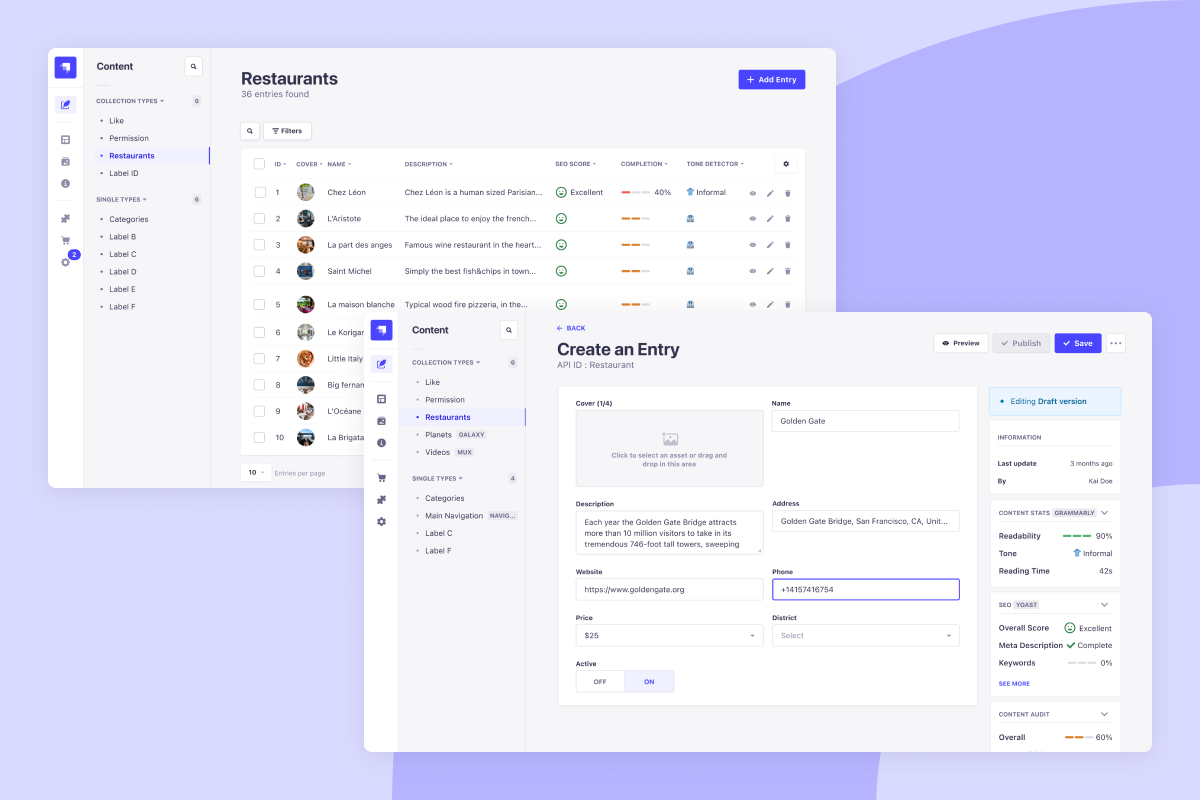
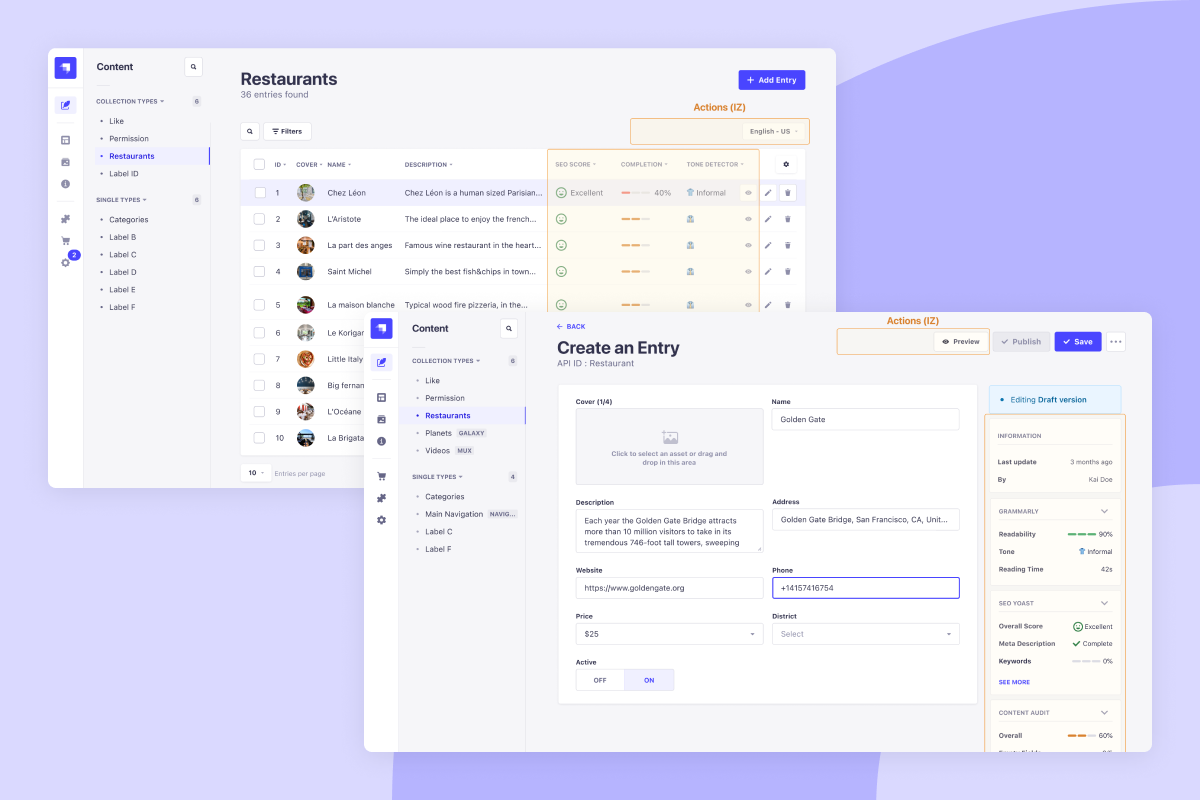
update info

diff --git a/rfcs/00xx - plugin-design-guidelines/00xx - plugin-design-guidelines.md b/rfcs/00xx - plugin-design-guidelines/00xx - plugin-design-guidelines.md
@@ -45,10 +45,12 @@ Plugins managing content for end-users should add collection and single types to
 
 To display additional information or allow specific actions in the Content Manager, a plugin should use injection zones to embed simple components, such as a card with texts, or a button.
 
-1. **Actions** in the List View (top-right corner of the list view): This zone is dedicated to buttons, filters, or select inputs. Example: Locale select (Internationalization).
-2. **Columns** (one or many columns in the list view): This zone is dedicated to short texts or icon button(s). Example: SEO score (Yoast)
-3. **Sidebar** (below the information card in the sidebar of the edit view): This zone is dedicated to any component that fits in a card of the width of the sidebar. Don't try to put too much in it and focus on the key feature of the plugin. Example: Writing style (Grammarly)
-- **Actions** in the Edit View (top-right corner of the edit view): This is zone is dedicated to buttons. Example: preview button (Netlify)
+**List View**
+- Actions (top-right corner): This zone is dedicated to buttons, filters, or select inputs. Example: Locale select (Internationalization).
+- Column(s) (in the table): This zone is dedicated to short texts or icon button(s). Example: SEO score (Yoast)
+**Edit View**
+- Actions (top-right corner): This is zone is dedicated to buttons. Example: preview button (Netlify)
+- Sidebar (on the right below the information card): This zone is dedicated to any component that fits in a card of the width of the sidebar. Don't try to put too much in it and focus on the key feature of the plugin. Example: Writing style (Grammarly)
 
 ## Navigation
 
